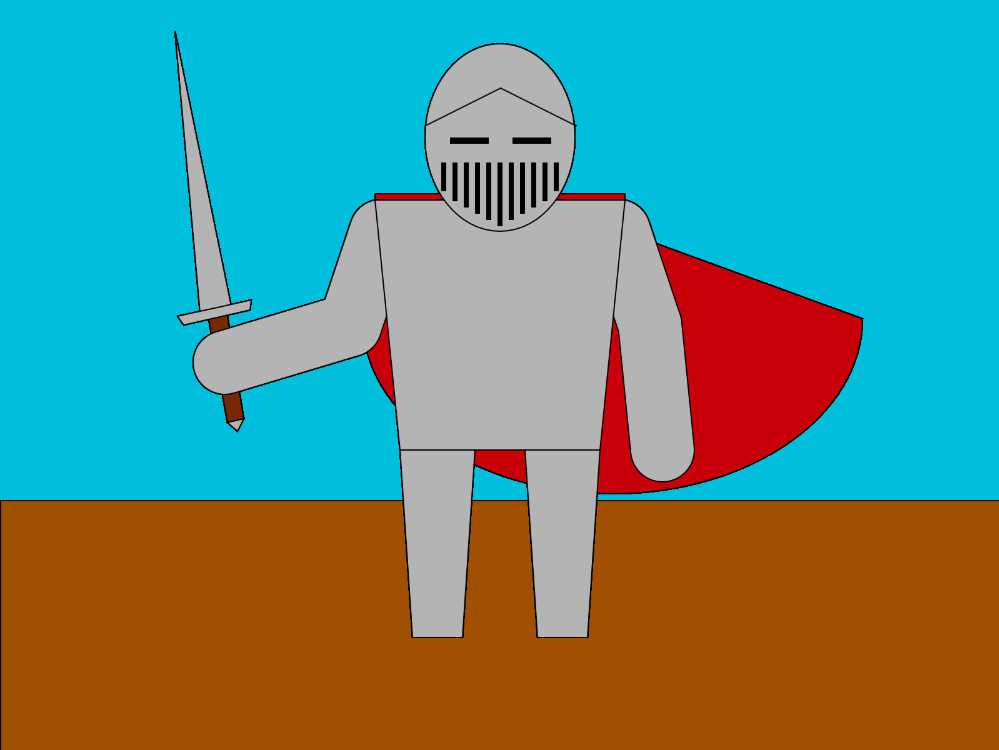
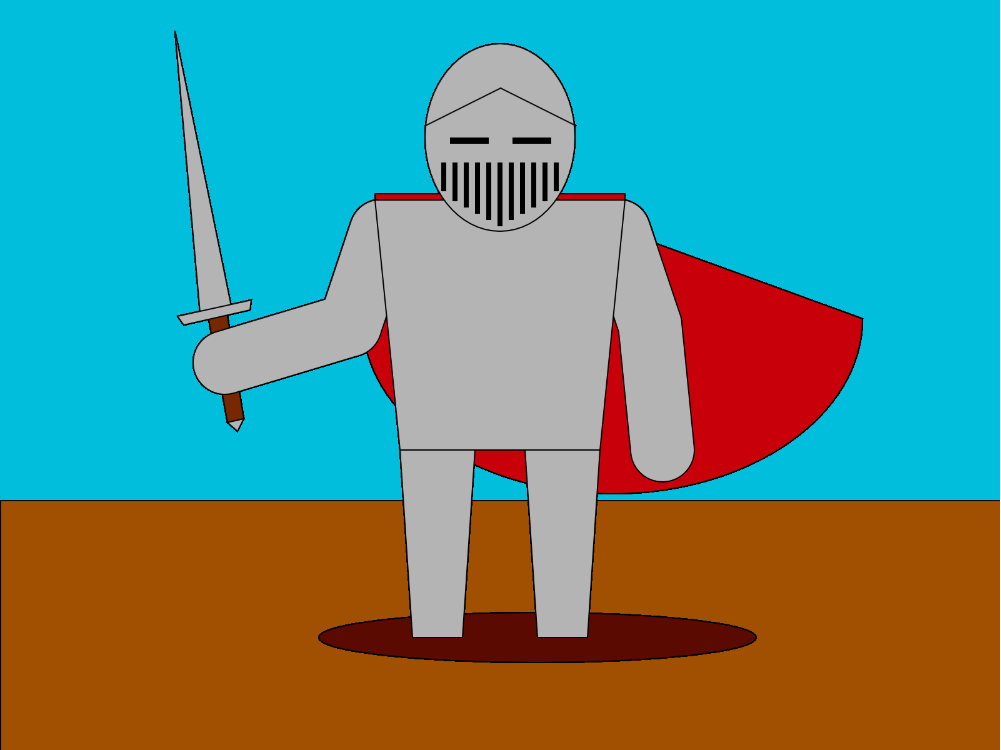
adding shadow

diff --git a/HW-03-Assignment/sketch.js b/HW-03-Assignment/sketch.js
@@ -10,6 +10,10 @@ function setup() {
 function draw() {
 translate(400, 210);
 
+// shadow
+fill(90,10,0);
+ellipse(30,300,350,40);
+
 fill( 180, 180, 180);
 
 // sword
